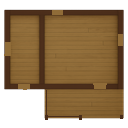
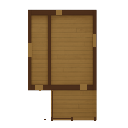
adjustment for font size and hex minimap back to pseudo hex (new minimap code still to be removed)

diff --git a/static/js/battle.js b/static/js/battle.js
@@ -381,7 +381,141 @@
     });
   }
 
+ 
   function drawMinimap() {
+    if (!el.minimap || !state) return;
+    const ctx = el.minimap.getContext('2d');
+    if (!ctx) return;
+
+    const cols = state.battlefield.width;
+    const rows = state.battlefield.height;
+    const isHex = state.battlefield.tileMode !== 'square';
+    const w = el.minimap.width;
+    const h = el.minimap.height;
+
+    const logicalRows = isHex ? rows + 0.5 : rows;
+    const scale = Math.max(1, Math.min((w - 8) / cols, (h - 8) / logicalRows));
+
+    ctx.clearRect(0, 0, w, h);
+    ctx.fillStyle = '#3f172a07';
+    ctx.fillRect(0, 0, w, h);
+
+    const mapW = cols * scale;
+    const mapH = logicalRows * scale;
+    const offsetX = Math.floor((w - mapW) / 2);
+    const offsetY = Math.floor((h - mapH) / 2);
+
+    minimapMeta = { cols, rows, scale, mapW, mapH, offsetX, offsetY };
+
+    const terrMap = new Map();
+    (state.battlefield.terrain || []).forEach(t => terrMap.set(tileKey(t.x, t.y), t.type));
+    for (let y = 0; y < rows; y++) {
+      for (let x = 0; x < cols; x++) {
+        const terr = terrMap.get(tileKey(x, y)) || 'open';
+        ctx.fillStyle = MINIMAP_TERRAIN_COLORS[terr] || MINIMAP_TERRAIN_COLORS.open;
+        if (state.battlefield.tileMode === 'square') {
+          ctx.fillRect(offsetX + x * scale, offsetY + y * scale, scale, scale);
+        } else {  
+            if (x % 2 === 0) {
+              ctx.fillRect(offsetX + x * scale, offsetY + y * scale, scale, scale);
+            } else {
+              ctx.fillRect(offsetX + x * scale, offsetY + scale/2+ y * scale, scale, scale);
+            }
+        }
+      }
+    }
+
+    const allUnits = [...state.red.units, ...state.blue.units];
+    allUnits.forEach(u => {
+      const ux = offsetX + u.position.x * scale + scale / 2;
+      const uy = offsetY + u.position.y * scale + scale / 2;
+      const r = Math.max(2, scale * 0.35);
+      let dy = 0;
+      if (state.battlefield.tileMode !== 'square' && u.position.x % 2 !== 0) {
+        dy+= scale/2; 
+      }
+
+      ctx.beginPath();
+      ctx.arc(ux, uy + dy, r, 0, Math.PI * 2);
+      ctx.fillStyle = u.team === 'red' ? '#ef4444' : '#60a5fa';
+      ctx.fill();
+    });
+
+    if (state.selected_unit_id) {
+      const selected = allUnits.find(u => u.id === state.selected_unit_id);
+      if (selected) {
+        const sx = offsetX + selected.position.x * scale;
+        const sy = offsetY + selected.position.y * scale;
+        let dy = 0;
+         if (state.battlefield.tileMode !== 'square' && selected.position.x % 2 !== 0) {
+          dy+= scale/2; 
+         }
+        ctx.strokeStyle = '#22c55e';
+        ctx.lineWidth = 2;
+        ctx.strokeRect(sx, sy + dy, scale, scale);
+      }
+    }
+
+    ctx.strokeStyle = '#64748b';
+    ctx.lineWidth = 1;
+    ctx.strokeRect(offsetX - 0.5, offsetY - 0.5, mapW + 1, mapH + 1);
+  }
+
+  function updateMinimapViewportBox() {
+    if (!el.bfViewport || !el.minimapViewport || !minimapMeta) return;
+
+    const contentW = el.bf.scrollWidth;
+    const contentH = el.bf.scrollHeight;
+    if (!contentW || !contentH) return;
+
+    const visibleW = el.bfViewport.clientWidth;
+    const visibleH = el.bfViewport.clientHeight;
+    const scrollLeft = el.bfViewport.scrollLeft;
+    const scrollTop = el.bfViewport.scrollTop;
+
+    const vwRaw = (visibleW / contentW) * minimapMeta.mapW;
+    const vhRaw = (visibleH / contentH) * minimapMeta.mapH;
+    const vw = Math.min(minimapMeta.mapW, Math.max(10, vwRaw));
+    const vh = Math.min(minimapMeta.mapH, Math.max(10, vhRaw));
+    const vxRaw = minimapMeta.offsetX + (scrollLeft / contentW) * minimapMeta.mapW;
+    const vyRaw = minimapMeta.offsetY + (scrollTop / contentH) * minimapMeta.mapH;
+    const vx = Math.min(minimapMeta.offsetX + minimapMeta.mapW - vw, Math.max(minimapMeta.offsetX, vxRaw));
+    const vy = Math.min(minimapMeta.offsetY + minimapMeta.mapH - vh, Math.max(minimapMeta.offsetY, vyRaw));
+
+    el.minimapViewport.style.left = `${vx}px`;
+    el.minimapViewport.style.top = `${vy}px`;
+    el.minimapViewport.style.width = `${vw}px`;
+    el.minimapViewport.style.height = `${vh}px`;
+
+    if (el.minimapCoords) {
+      const centerX = Math.floor((scrollLeft + visibleW / 2) / TILE_SIZE);
+      const centerY = Math.floor((scrollTop + visibleH / 2) / TILE_SIZE);
+      el.minimapCoords.textContent = `(${centerX},${centerY})`;
+    }
+
+    // ── Auto-reposition minimap based on scroll position ─────────────────────
+    const maxScrollLeft = el.bfViewport.scrollWidth - el.bfViewport.clientWidth;
+    const minimapPanel = el.minimapWrap && el.minimapWrap.closest('.battle-minimap-panel');
+    if (minimapPanel && maxScrollLeft > 0) {
+      const atRight = scrollLeft >= maxScrollLeft - 2;
+      const atLeft  = scrollLeft <= 2;
+
+      if (atRight && minimapPosition === 'right') {
+        // Fully scrolled right — move minimap to top-left
+        minimapPanel.style.right = '';
+        minimapPanel.style.left  = '12px';
+        minimapPosition = 'left';
+      } else if (atLeft && minimapPosition === 'left') {
+        // Fully scrolled left while minimap is top-left — move it back to top-right
+        minimapPanel.style.left  = '';
+        minimapPanel.style.right = '12px';
+        minimapPosition = 'right';
+      }
+    }
+  }
+
+ 
+  function XdrawMinimap() {
     if (!el.minimap || !state) return;
     const ctx = el.minimap.getContext('2d');
     if (!ctx) return;
@@ -457,7 +591,7 @@
     ctx.strokeRect(offsetX - 0.5, offsetY - 0.5, mapW + 1, mapH + 1);
   }
 
-  function updateMinimapViewportBox() {
+  function XupdateMinimapViewportBox() {
     if (!el.bfViewport || !el.minimapViewport || !minimapMeta) return;
 
     const contentW = el.bf.scrollWidth;
@@ -528,7 +662,7 @@
 
     const isHex = tileMode !== 'square';
     const hexGeo = isHex ? hexGeometry(TILE_SIZE) : null;
-    const UNIT_TILE_SIZE = isHex ? Math.round(Math.min(hexGeo.w, hexGeo.h) - 50) : TILE_SIZE - 50;
+    const UNIT_TILE_SIZE = isHex ? Math.round(Math.min(hexGeo.w, hexGeo.h ) * 0.6 ) : Math.round(TILE_SIZE *0.7);
 
     el.bf.style.backgroundImage = `url("${mapImg}"), url("${fallback}")`;
     el.bf.style.setProperty('--tile-size', `${UNIT_TILE_SIZE}px`);

diff --git a/static/css/styles.css b/static/css/styles.css
@@ -140,7 +140,7 @@ button.team.active{background:#22c55e;color:#052e16}
 /*.tile.blue{outline:2px solid var(--blue)}*/
 .tile.sel{box-shadow:0 0 0 6px #22c55e inset;z-index: 6}
 .tile.smoke{box-shadow:0 0 0 2px #b7bbb9 inset}
-.tile .hp{font-size:10px;color:#fef3c7;position:absolute;bottom:2px;left:2px}
+.tile .hp{font-size:12px;color:#fef3c7;position:absolute;bottom:20%;left:25%}
 
 
 
@@ -891,8 +891,8 @@ background-color: transparent;
 /* ── Armor shield badge (top-right of unit slot) ─────────────────────────── */
 .unit-armor-badge {
   position: absolute;
-  top: 8px;
-  right: 8px;
+  top: 20%;
+  right: 60%;
   background: rgba(15, 23, 42, 0.0);
   color: #f5e725;
   font-size: 9px;
@@ -907,8 +907,8 @@ background-color: transparent;
 /* ── Down badge (top-right of unit slot) ─────────────────────────── */
 .unit-down-badge {
   position: absolute;
-  top: 48px;
-  right: 28px;
+  top: 48%;
+  right: 28%;
   background: rgba(15, 23, 42, 0.0);
   color: #f5e725;
   font-size: 12px;
@@ -923,8 +923,8 @@ background-color: transparent;
 /* ── Stress badge (top-right of unit slot) ─────────────────────────── */
 .unit-stress-badge {
   position: absolute;
-  top: 12px;
-  right: 30px;
+  top: 25%;
+  right: 25%;
   background: rgba(231, 235, 19, 0.9);
   color: #ec1010e1;
   font-size: 9px;
@@ -938,8 +938,8 @@ background-color: transparent;
 /* ── Overwatch badge (top-right of unit slot) ─────────────────────────── */
 .unit-overwatch-badge {
   position: absolute;
-  top: 16px;
-  right: 36px;
+  top: 35%;
+  right: 35%;
   background: rgba(80, 13, 189, 0.9);
   color: #ec1010e1;
   font-size: 12px;